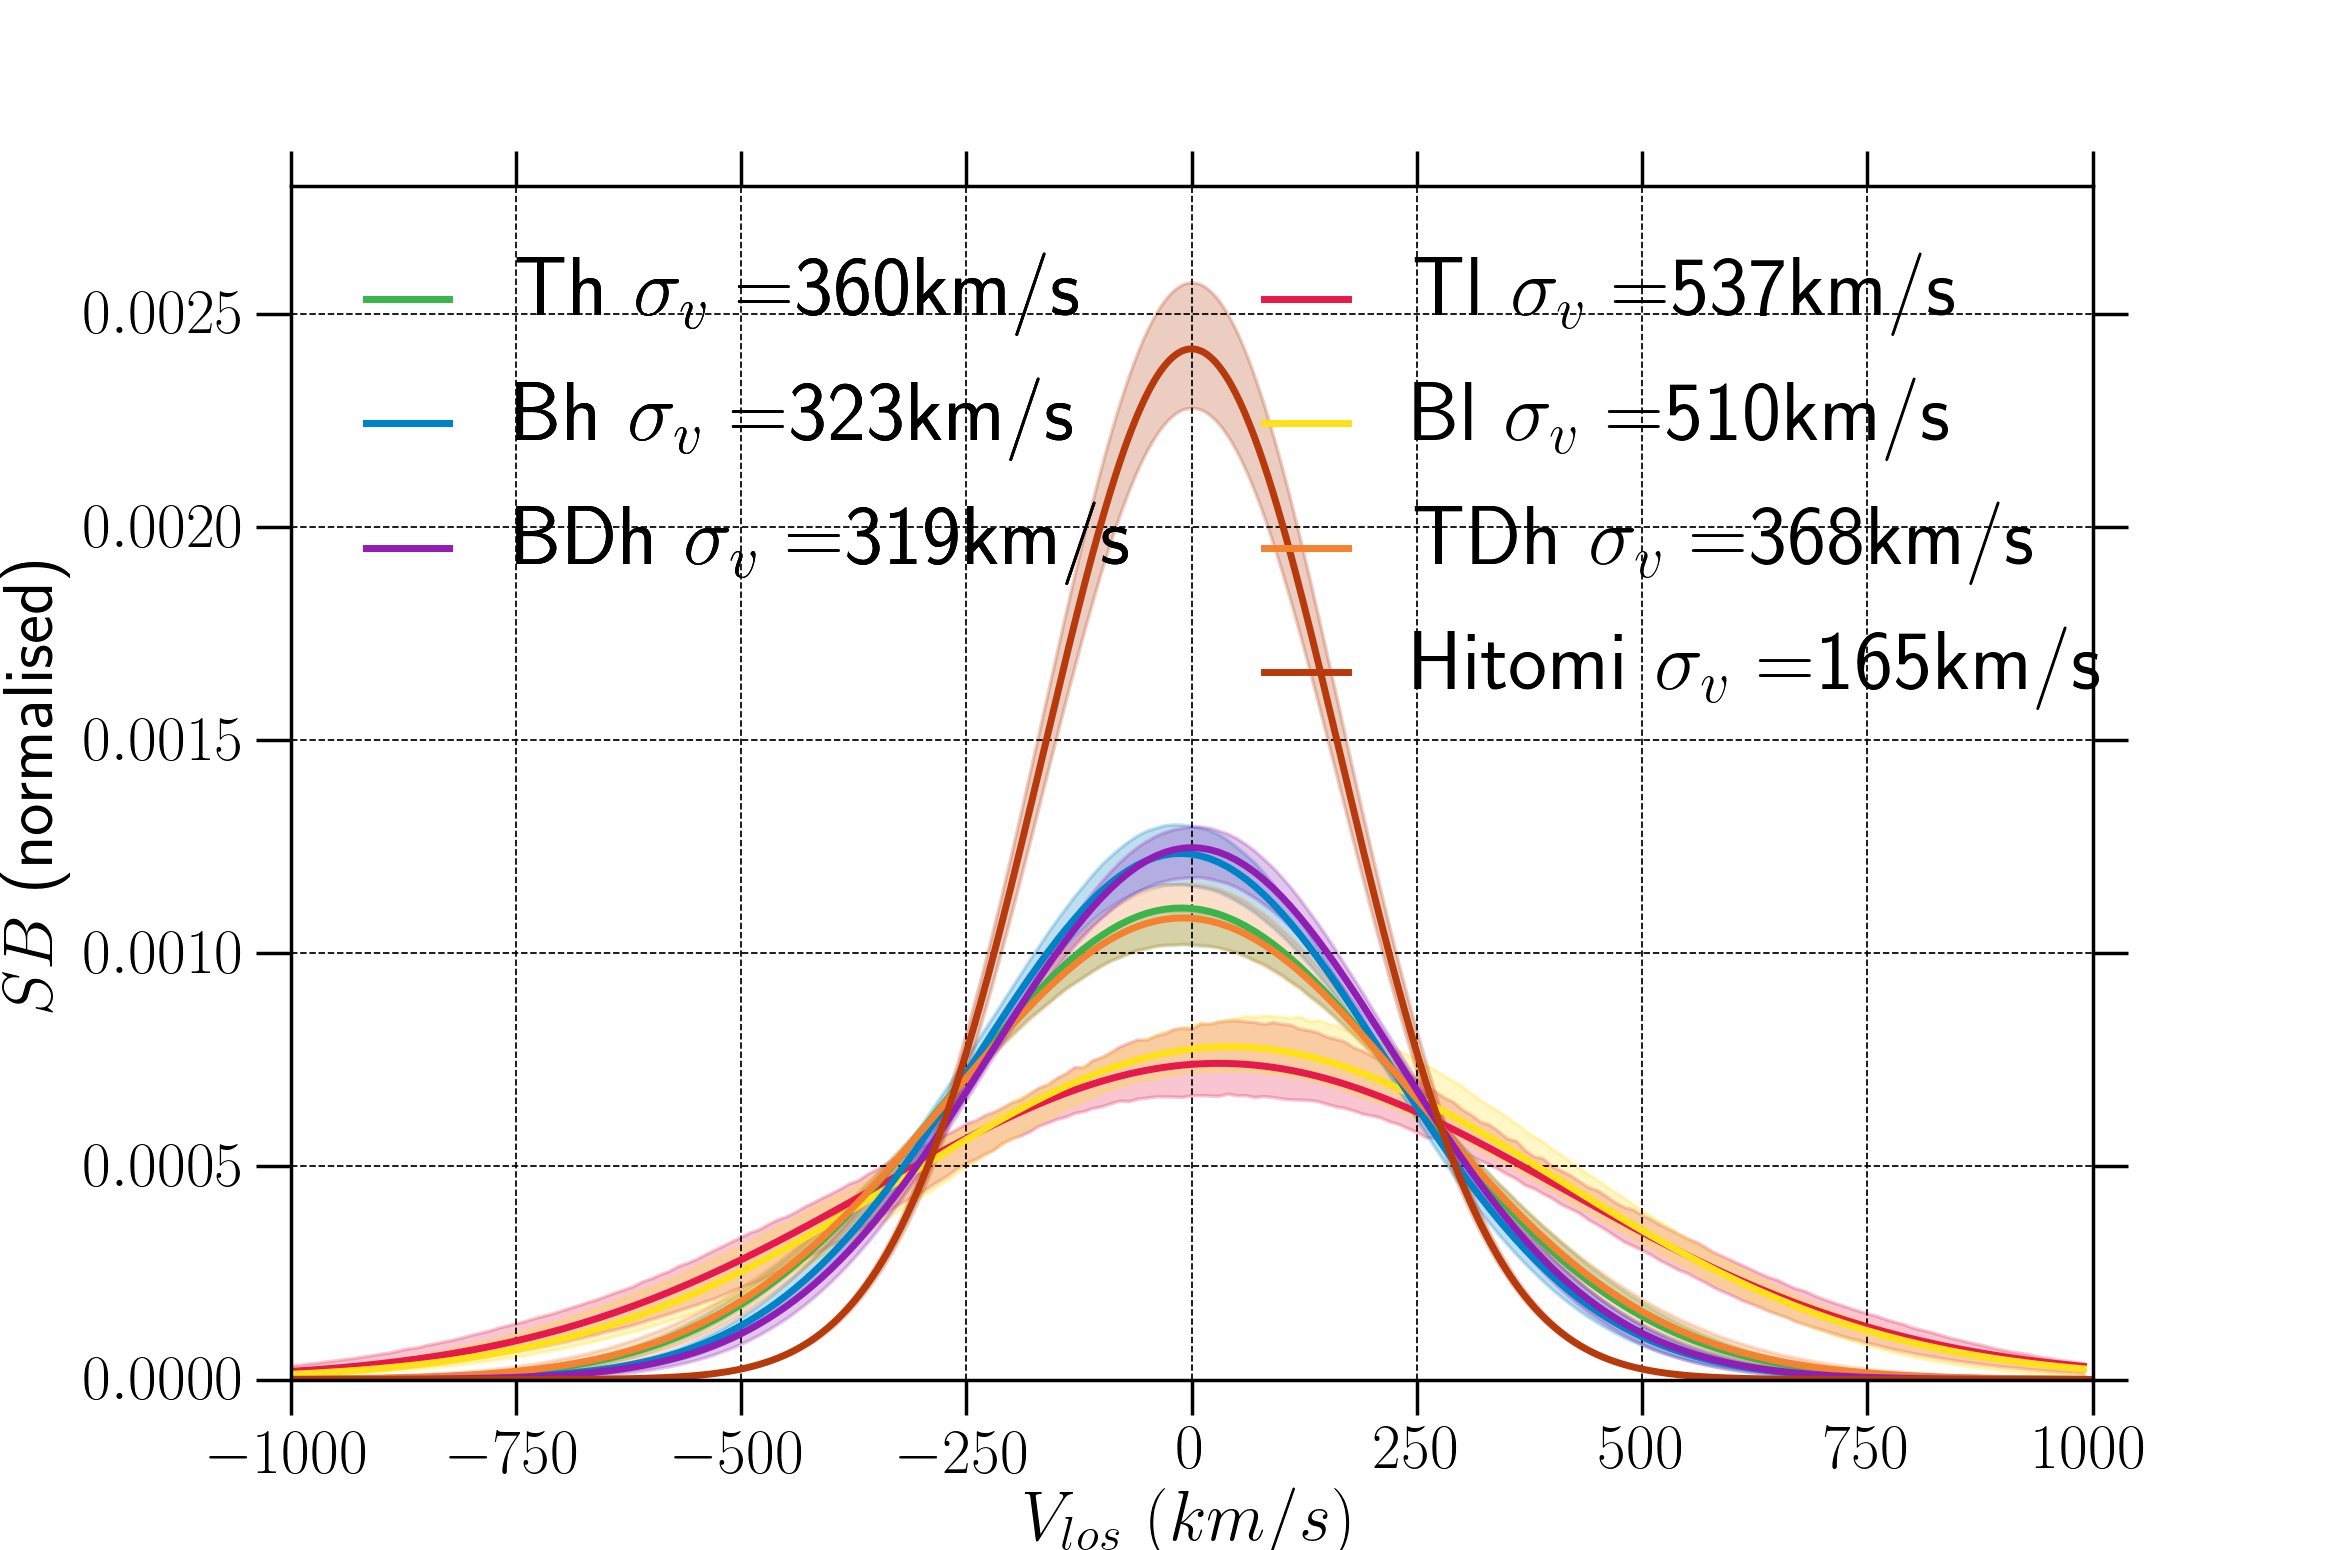
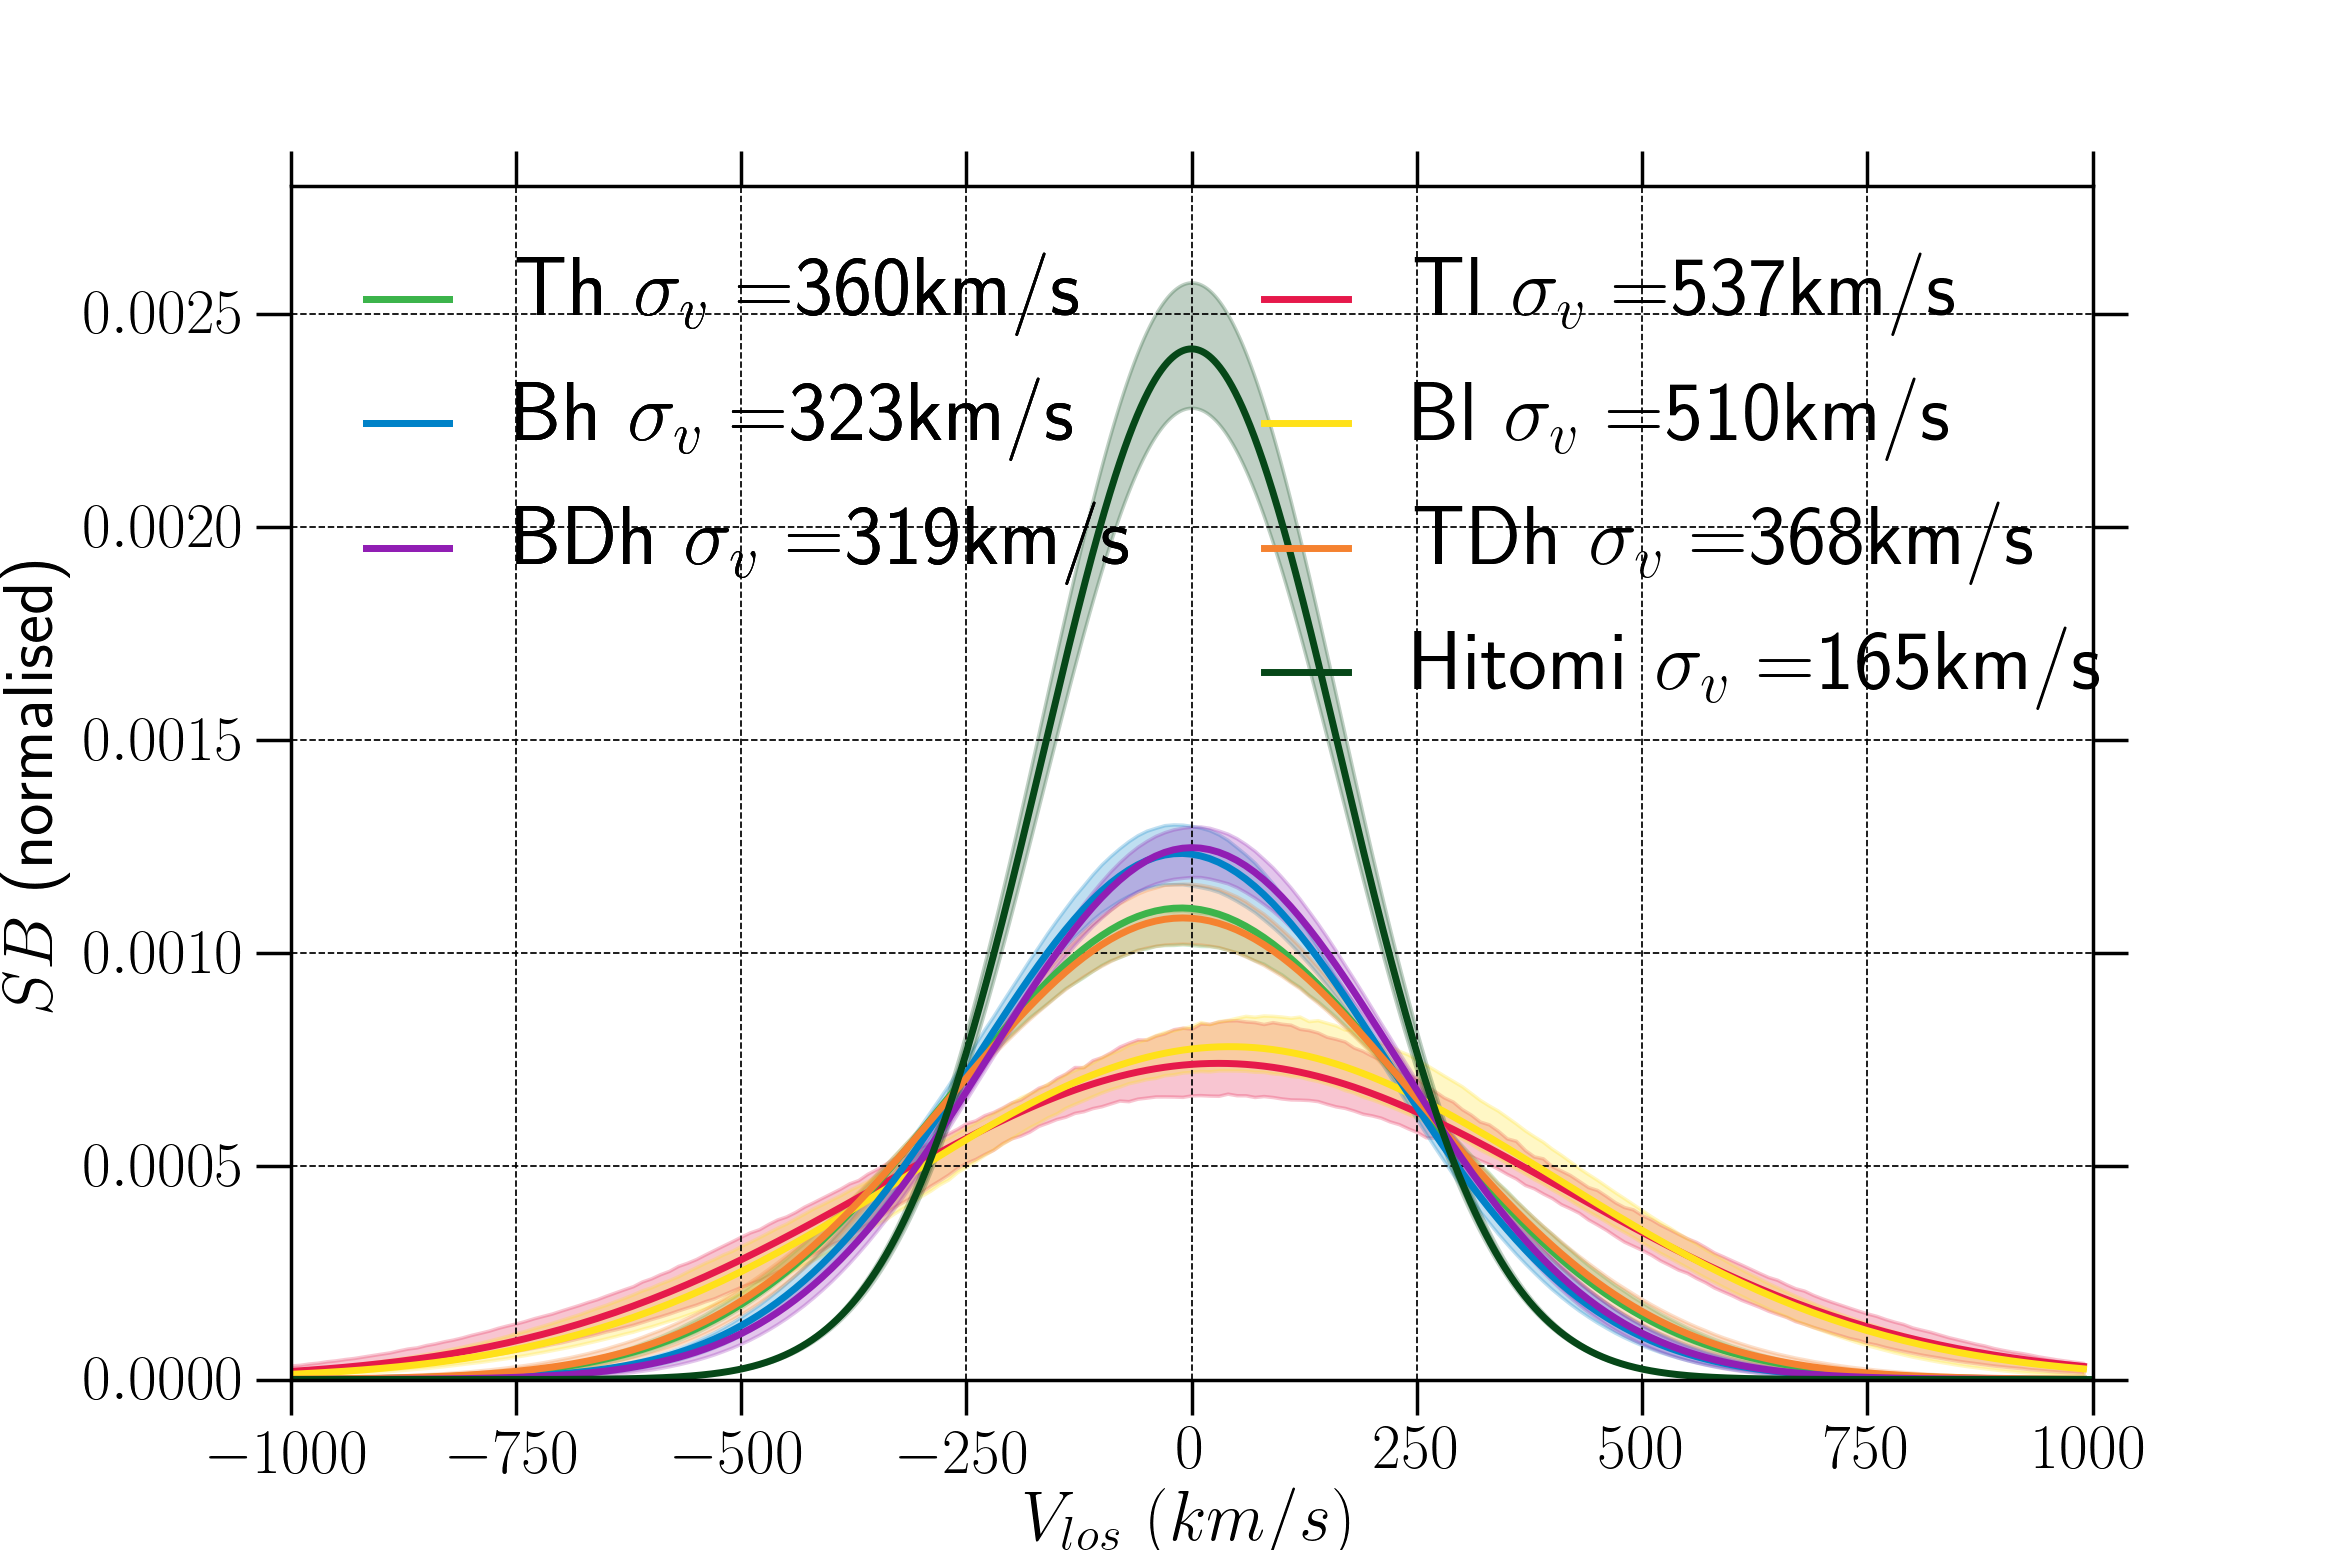
Edited sb-vlos plot

diff --git a/surface_brightness/sb_vlos_pdf.py b/surface_brightness/sb_vlos_pdf.py
@@ -94,8 +94,8 @@ for i1 in xrange(0, start_time.size):
         #Plot the data
         ax.fill_between(x1, (dist_data+0.5*del_dist_data)/height, (dist_data-0.5*del_dist_data)/height, color=colors[i1], alpha=.25)
         #ax.errorbar(x1, dist_data/height, yerr=del_dist_data/height, color=colors[i1], fmt=".", markeredgecolor='none', markersize=.1, linewidth=1.)
-sb_vlos[i1+1],=ax.plot(x, y, label='Hitomi'+' $\sigma_v=$'+str(int(sig))+'km/s', color=colors[i1+1], marker=".", markeredgecolor='none', markersize=0.1, linewidth=2.)
-ax.fill_between(x, y1, y2, color=colors[i1+1], alpha=.25)
+sb_vlos[i1+1],=ax.plot(x, y, label='Hitomi'+' $\sigma_v=$'+str(int(sig))+'km/s', color=colors[9], marker=".", markeredgecolor='none', markersize=0.1, linewidth=2.)
+ax.fill_between(x, y1, y2, color=colors[9], alpha=.25)
 sb_legend1=ax.legend(handles=sb_vlos[::2], loc='upper right', bbox_to_anchor=(1.05, 1.0), ncol=1, fontsize=24.)
 ax.add_artist(sb_legend1)
 sb_legend1.get_frame().set_alpha(0.)
